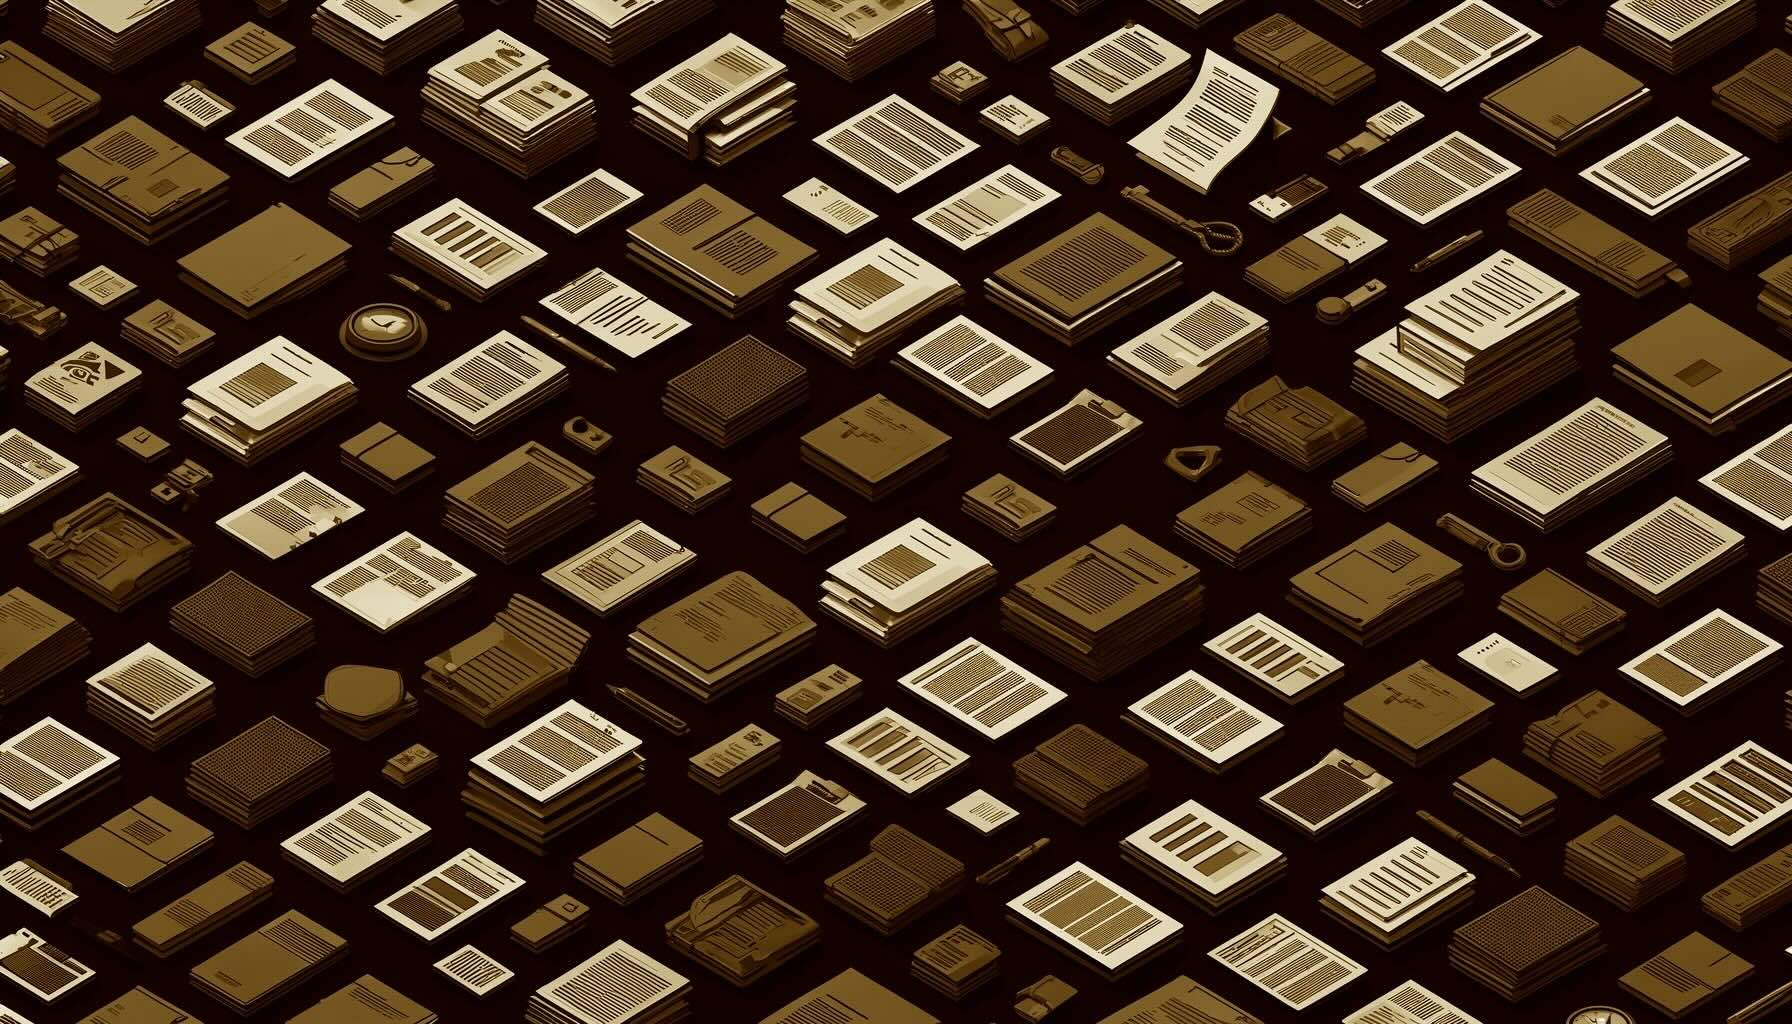
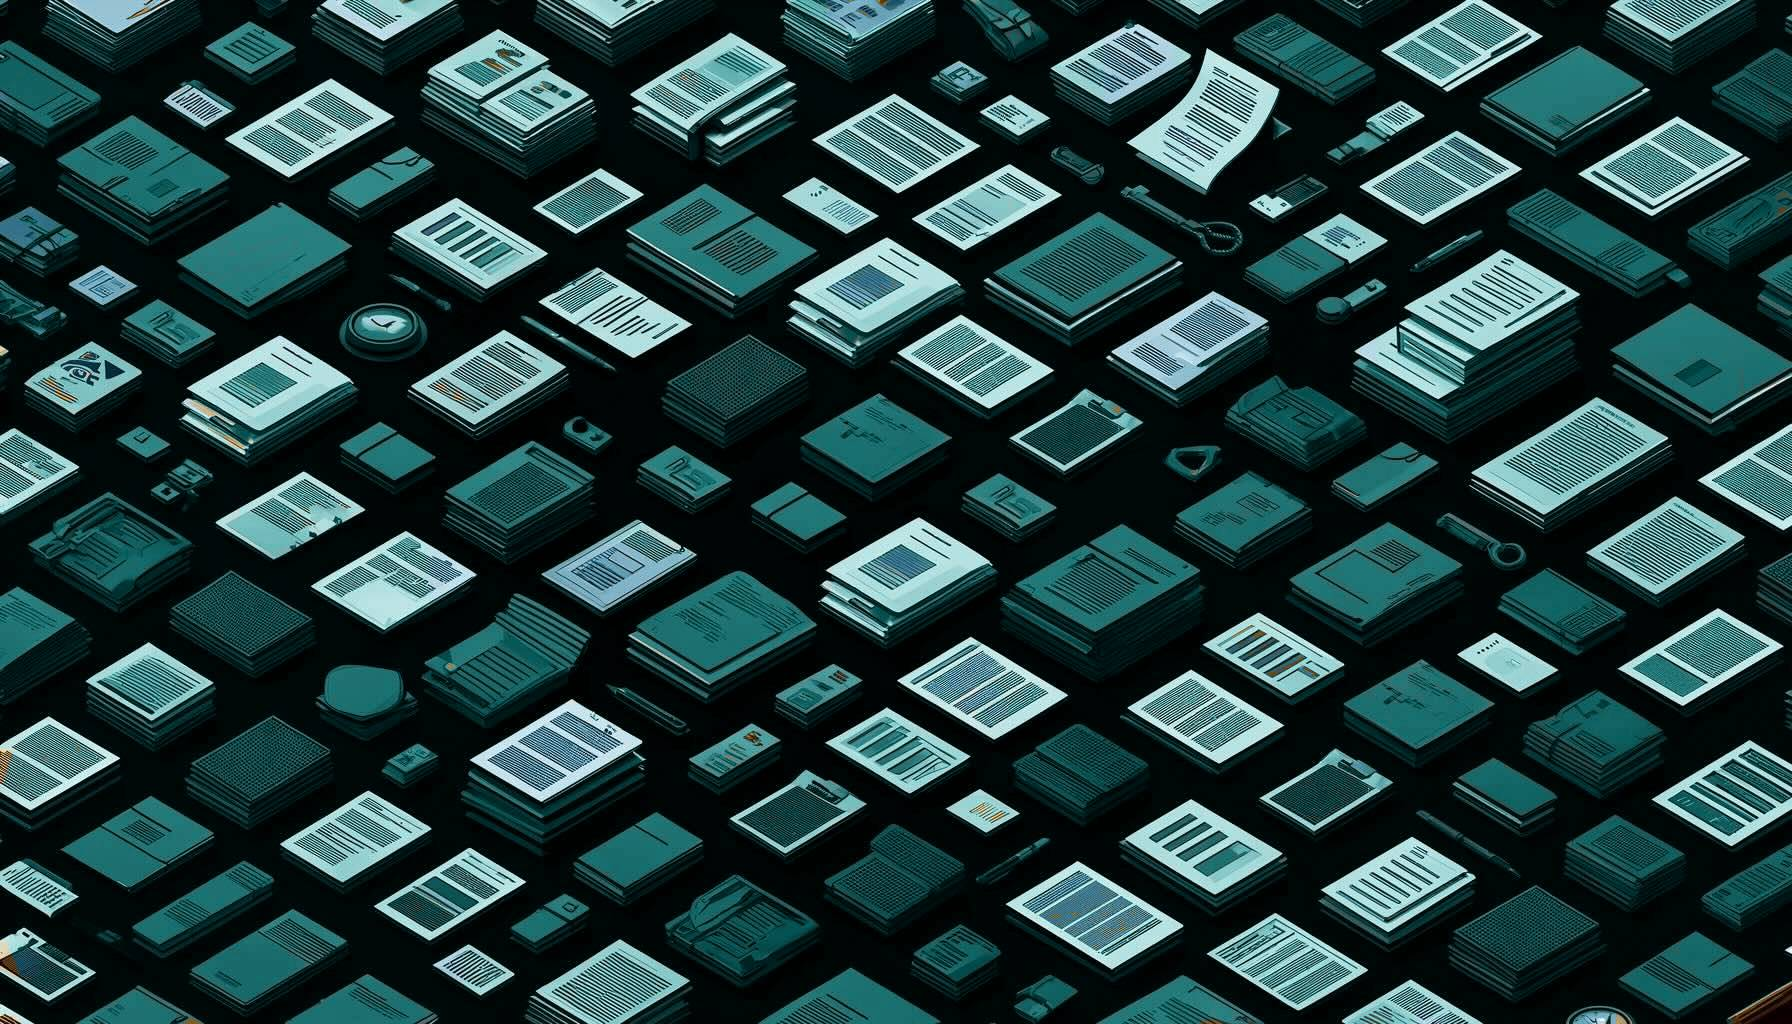
Updated color theme to blue

diff --git a/index.html b/index.html
@@ -76,7 +76,7 @@
         <section class="feature right">
           <div
             class="image"
-            style="background-image: url('images/tile-bg.jpg')"
+            style="background-image: url('images/tile-bg2.jpg')"
           >
             <img src="images/documents.png" alt="" />
           </div>
@@ -92,7 +92,7 @@
         <section class="feature left">
           <div
             class="image"
-            style="background-image: url('images/tile-bg.jpg')"
+            style="background-image: url('images/tile-bg2.jpg')"
           >
             <img src="images/mobile.png" alt="" />
           </div>
@@ -122,7 +122,7 @@
         <section class="feature left">
           <div
             class="image"
-            style="background-image: url('images/tile-bg.jpg')"
+            style="background-image: url('images/tile-bg2.jpg')"
           >
             <img src="images/dashboard.png" alt="" />
           </div>

diff --git a/assets/css/main.css b/assets/css/main.css
@@ -2921,7 +2921,7 @@ input[type="button"].small,
 
 #footer {
   background-attachment: scroll;
-  background-color: #af8f6f;
+  background-color: #4d869c;
   background-image: url("images/bottom-3200.svg");
   background-position: top center;
   background-repeat: repeat-x;
